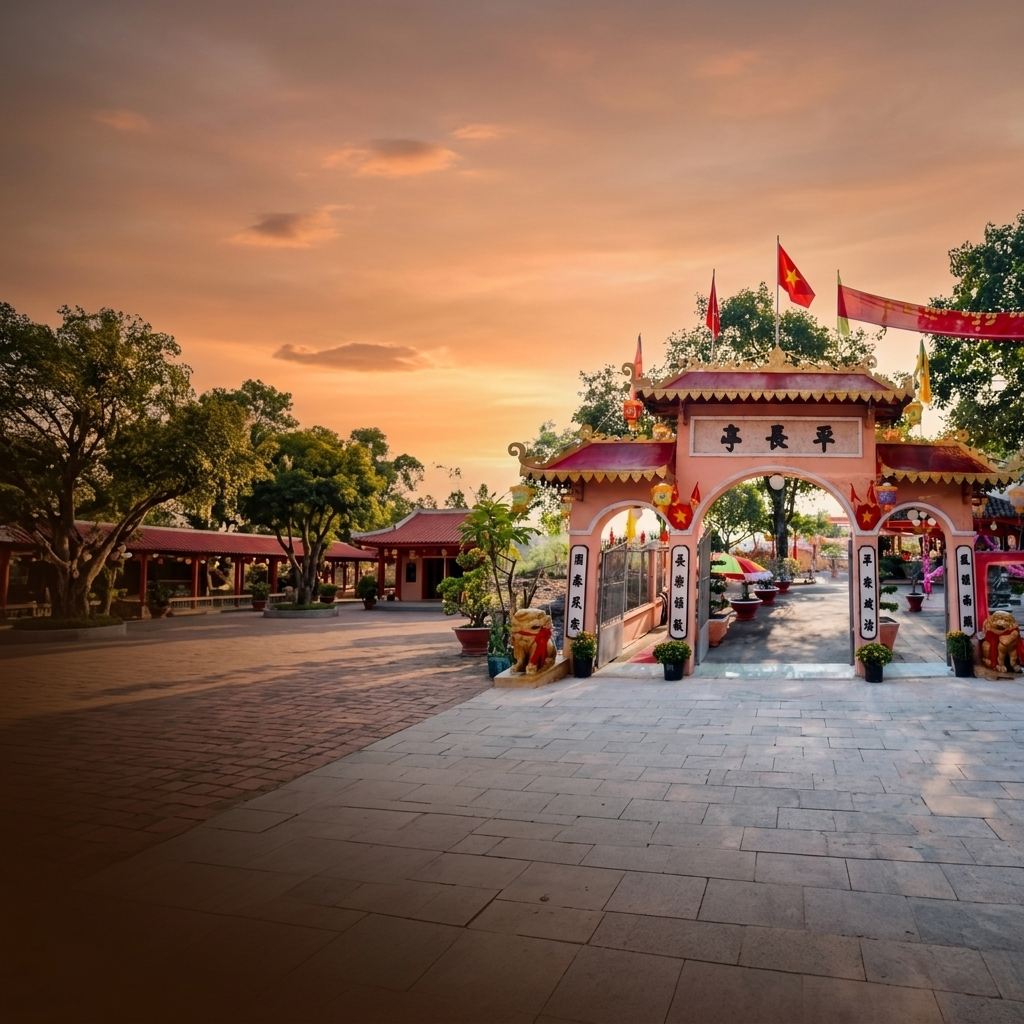
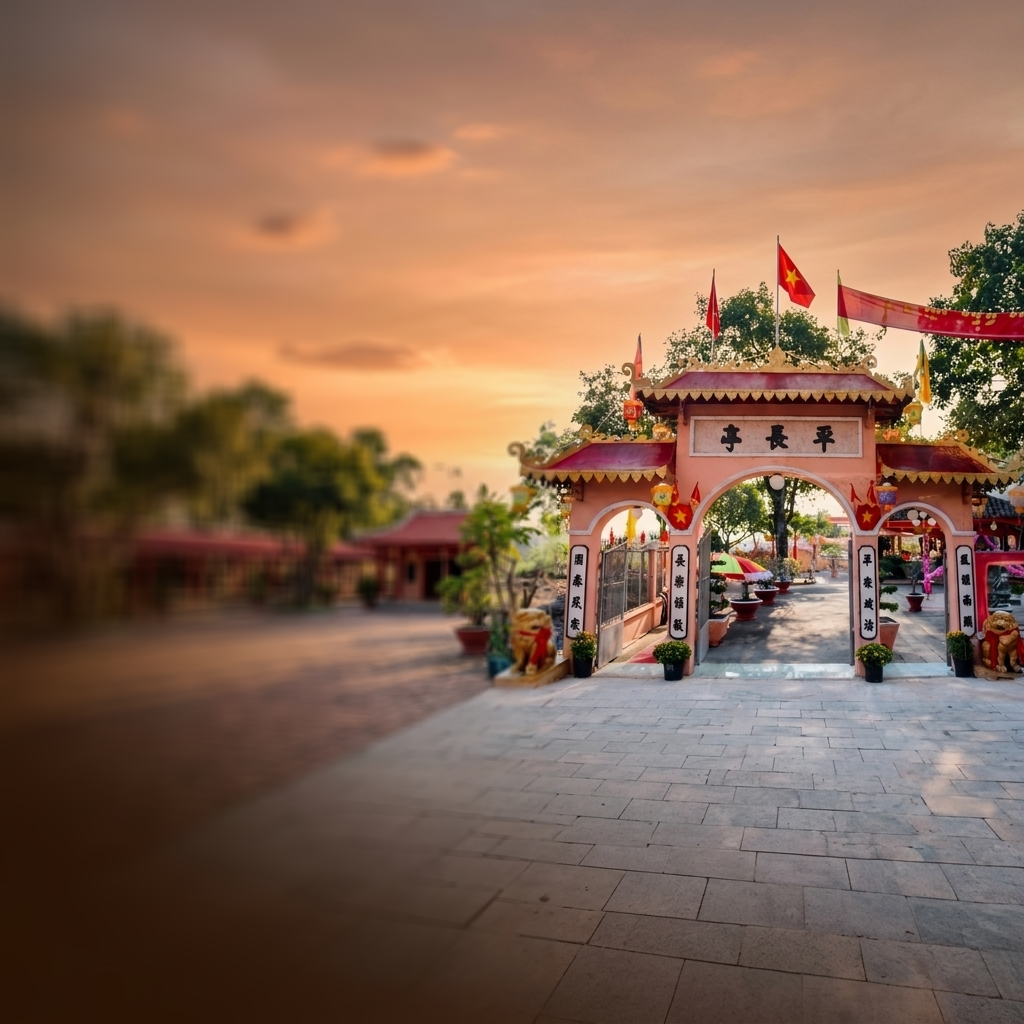
feat: apply variable gaussian blur to the left portion of the hero background for a dreamy, out-of-focus bokeh look that mimics Chua Buu Phuoc, bump version to v3.15.0

Changed region(s): [[0.0, 0.2812, 0.5625, 0.7188], [0.125, 0.6562, 0.25, 0.6875]]

diff --git a/index.html b/index.html
@@ -12,7 +12,7 @@
   <link href="https://fonts.googleapis.com/css2?family=Be+Vietnam+Pro:wght@300;400;500;600;700;800&family=Outfit:wght@400;500;600;700;800&family=Playfair+Display:ital,wght@0,500;0,600;0,700;1,400&family=Space+Mono:wght@400;700&display=swap" rel="stylesheet" />
 
   <!-- Styles -->
-  <link rel="stylesheet" href="css/style.css?v=3.14.0" />
+  <link rel="stylesheet" href="css/style.css?v=3.15.0" />
 
   <!-- Preload critical assets -->
   <link rel="preload" href="images/thuyet_minh_final.jpg" as="image" />
@@ -173,7 +173,7 @@
   <section id="thuyet-minh" class="narration">
     <div class="narration-inner">
       <div class="narration-media">
-        <img src="images/thuyet_minh_final.jpg?v=3.14.0" alt="Đình Bình Trường" loading="lazy" />
+        <img src="images/thuyet_minh_final.jpg?v=3.15.0" alt="Đình Bình Trường" loading="lazy" />
       </div>
       <div class="narration-copy">
         <h2 data-i18n="narration.title">CÂU CHUYỆN DI TÍCH</h2>
@@ -451,11 +451,11 @@
 <!-- ============================================================
      SCRIPTS
      ============================================================ -->
-<script src="js/translations.js?v=3.14.0"></script>
-<script src="js/map-data.js?v=3.14.0" defer></script>
-<script src="js/i18n.js?v=3.14.0"></script>
-<script src="js/app.js?v=3.14.0"></script>
-<script type="module" src="js/temple-3d.js?v=3.14.0"></script>
+<script src="js/translations.js?v=3.15.0"></script>
+<script src="js/map-data.js?v=3.15.0" defer></script>
+<script src="js/i18n.js?v=3.15.0"></script>
+<script src="js/app.js?v=3.15.0"></script>
+<script type="module" src="js/temple-3d.js?v=3.15.0"></script>
 
 </body>
 </html>

diff --git a/css/style.css b/css/style.css
@@ -287,7 +287,7 @@ h3 {
   overflow: hidden;
   height: 550px; /* Moderate and perfectly balanced height on desktop */
   background: linear-gradient(to right, rgba(40, 26, 18, 0.72) 0%, rgba(40, 26, 18, 0.38) 45%, rgba(40, 26, 18, 0) 80%),
-              url('../images/hero_background.png?v=3.14.0') no-repeat right center / cover;
+              url('../images/hero_background.png?v=3.15.0') no-repeat right center / cover;
   color: #FFFFFF;
 }
 
@@ -1545,7 +1545,7 @@ h3 {
     min-height: 480px !important;
     height: auto !important;
     background: linear-gradient(to top, rgba(40, 26, 18, 0.9) 0%, rgba(40, 26, 18, 0.4) 100%),
-                url('../images/hero_background.png?v=3.14.0') no-repeat right center / cover !important;
+                url('../images/hero_background.png?v=3.15.0') no-repeat right center / cover !important;
     display: flex !important;
     align-items: center !important;
   }

diff --git a/js/temple-3d.js b/js/temple-3d.js
@@ -176,7 +176,7 @@ const Temple3D = {
   loadGLBModel(path, x, y, z, rotY = 0, scale = 1, onLoaded = null) {
     const loader = this._gltfLoader || new GLTFLoader();
     loader.load(
-      `${path}?v=3.14.0`,
+      `${path}?v=3.15.0`,
       (gltf) => {
         const model = gltf.scene;
         model.position.set(x, y, z);